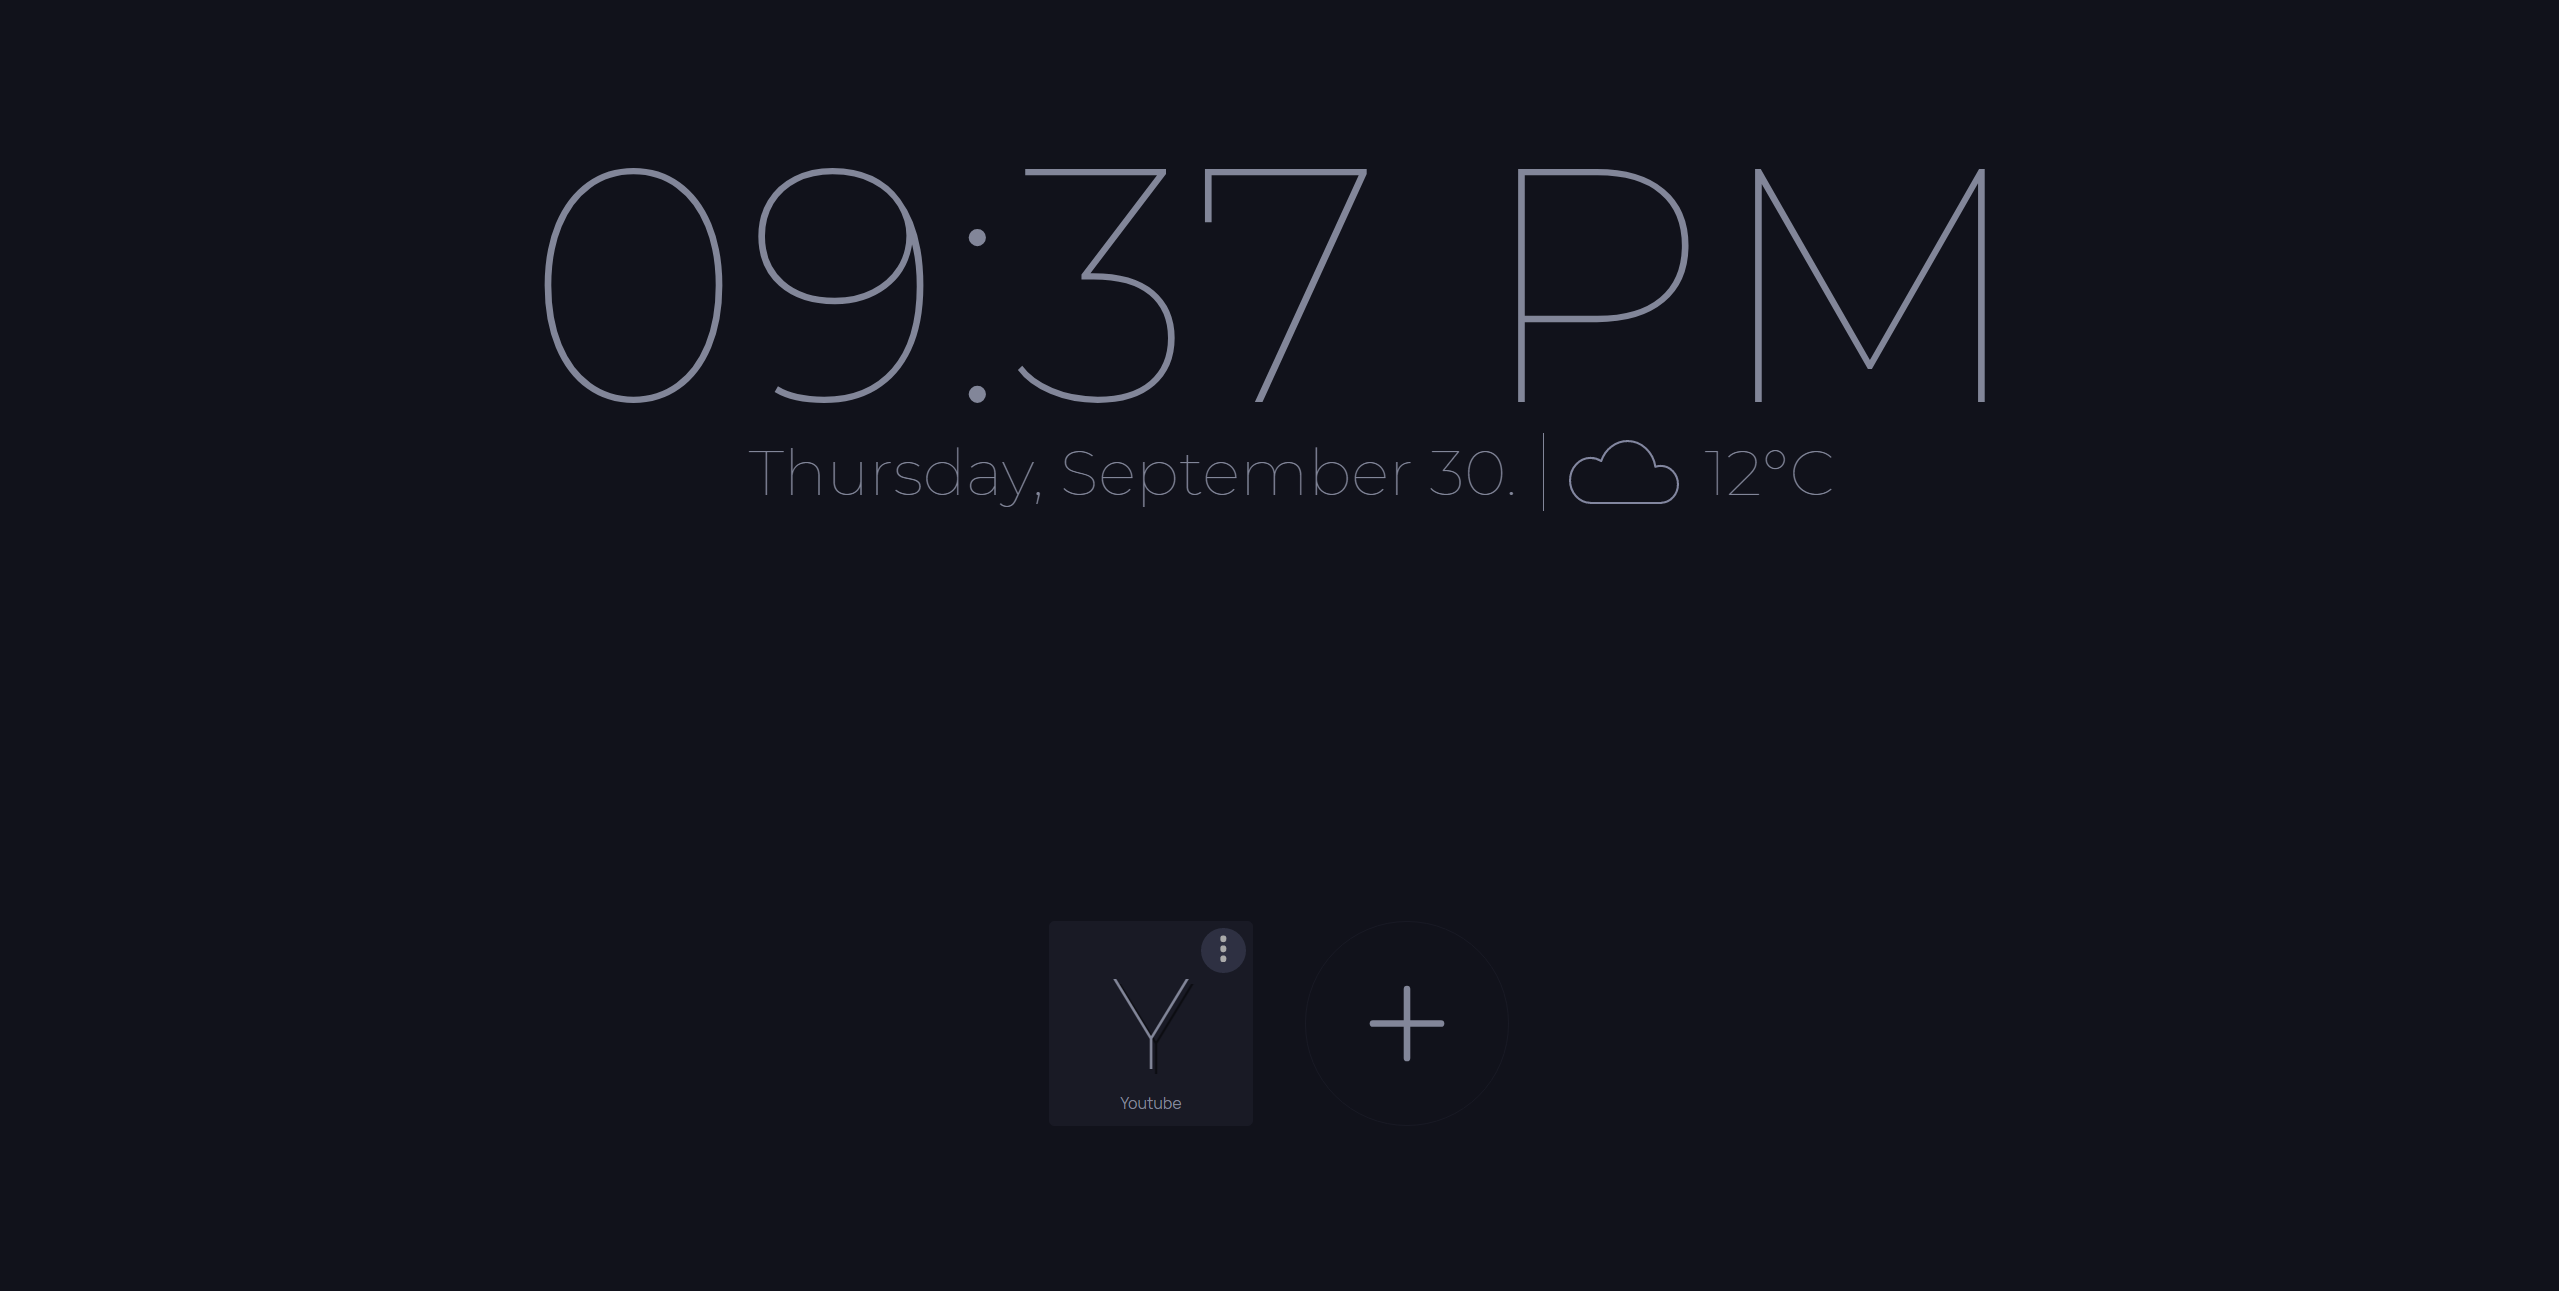
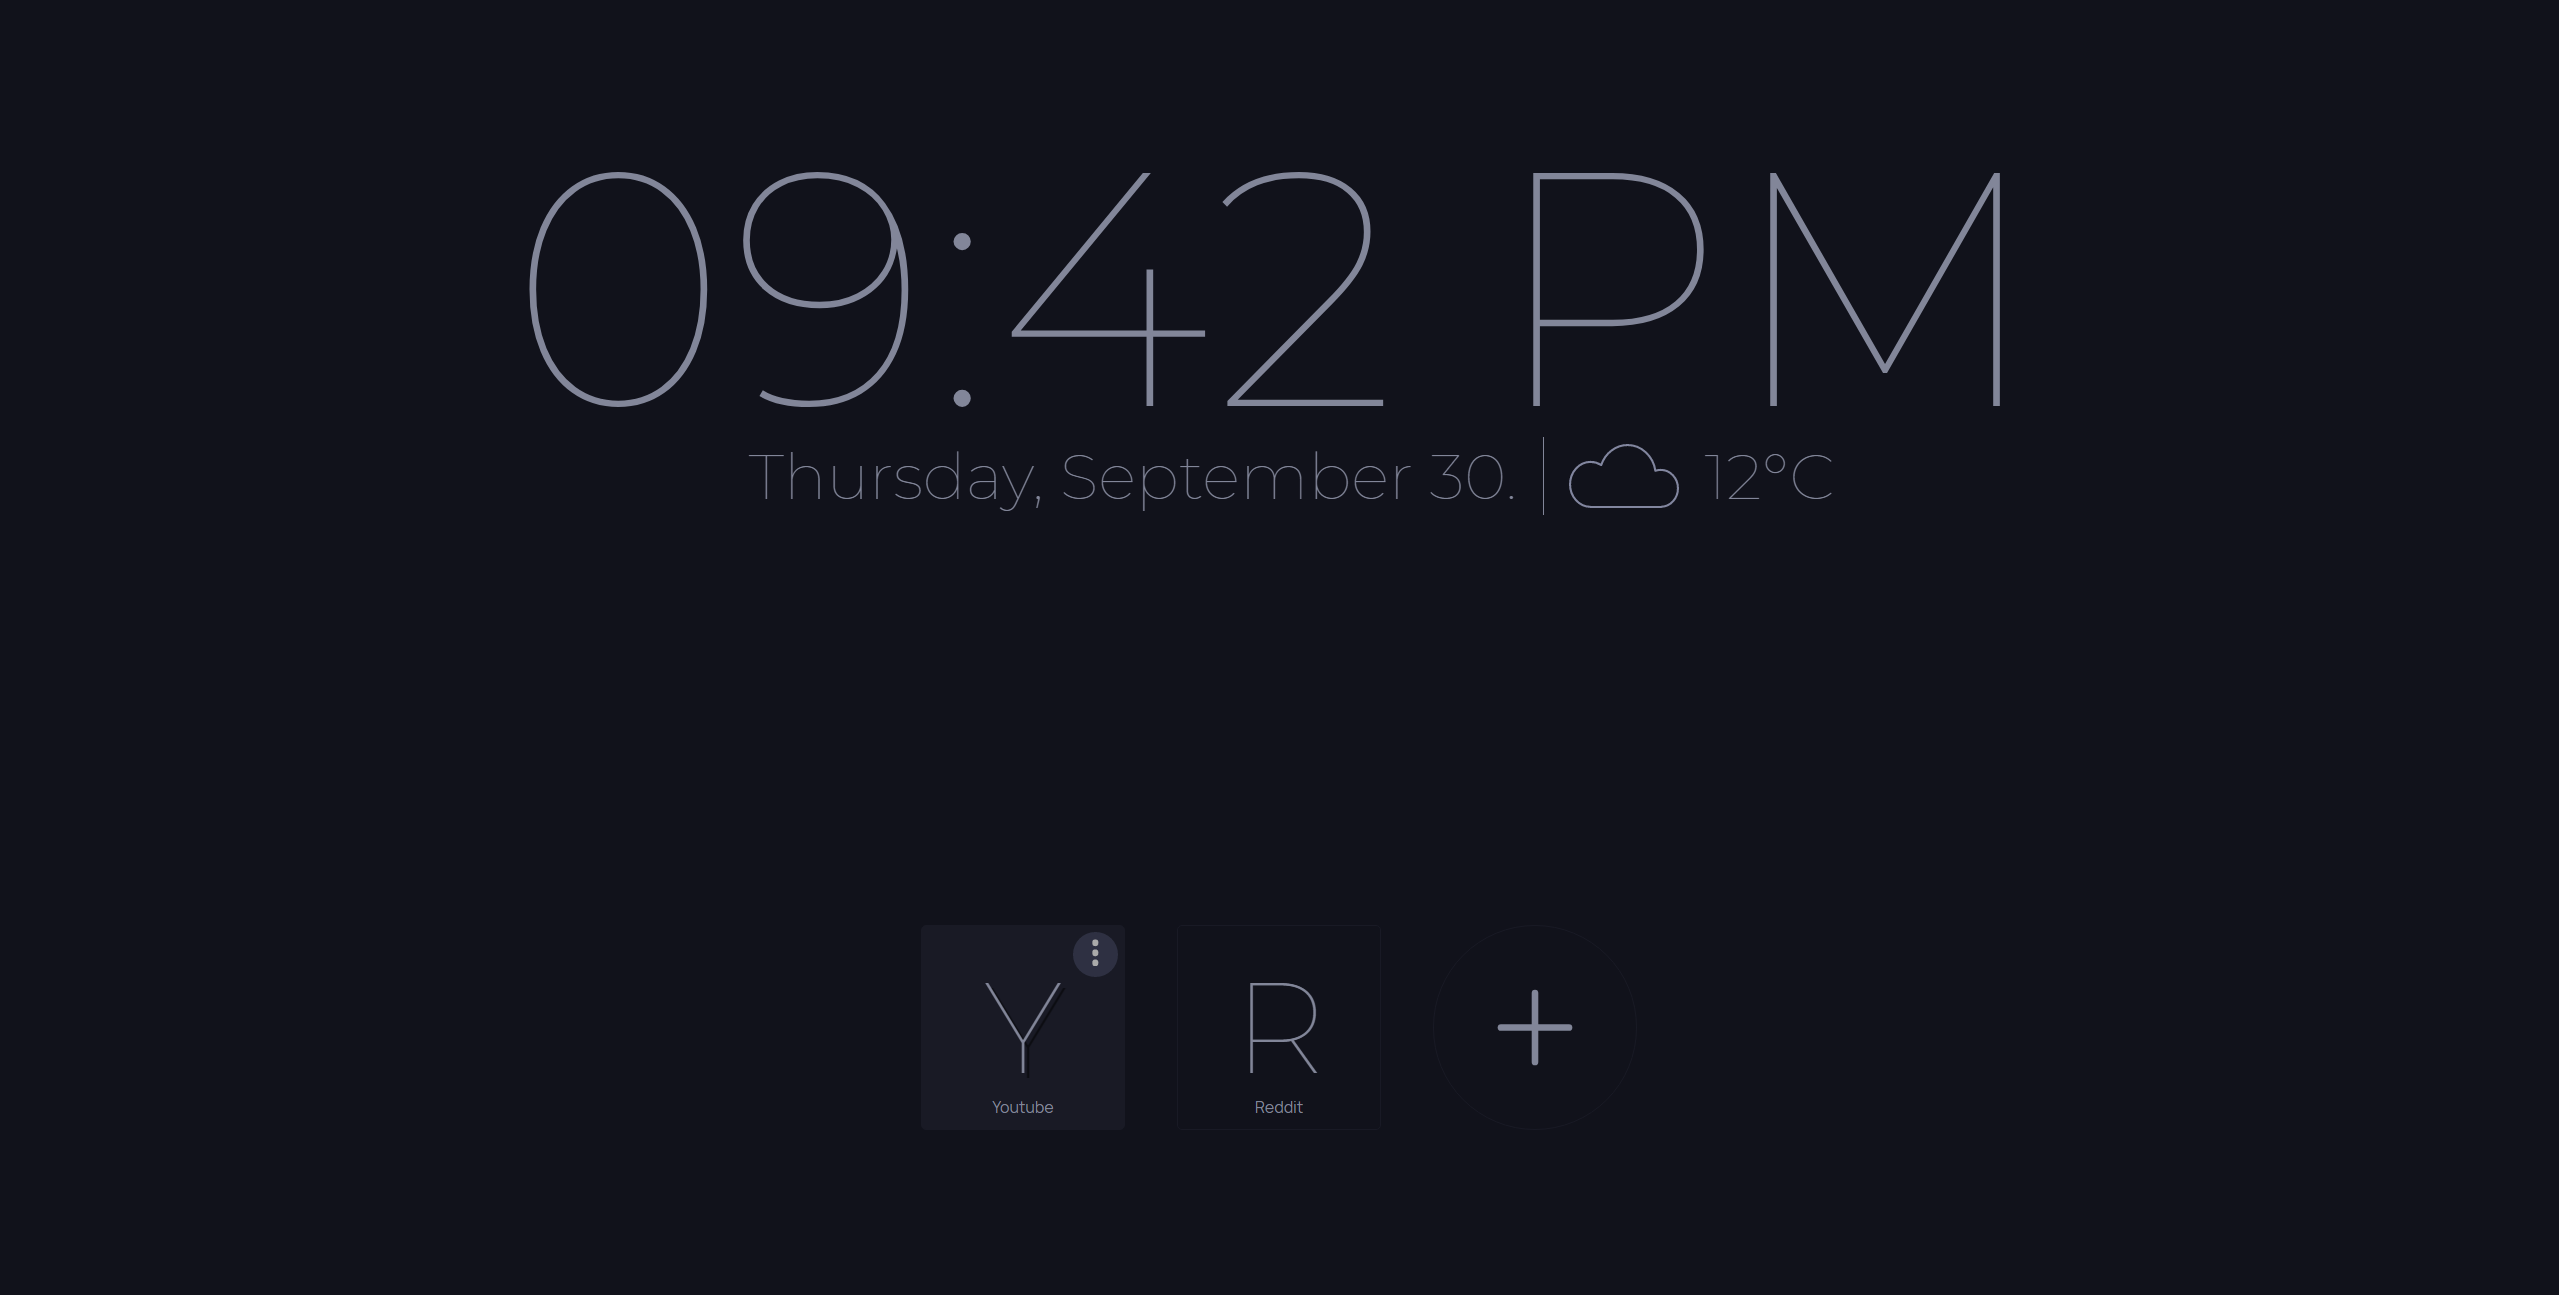
Yet another update to the screenshots and README

diff --git a/README.md b/README.md
@@ -1,5 +1,6 @@
 # web-extension
-An updated web extension that changes the default new tab in chrome to the date, time, local weather, and custom shortcuts.
+An updated web extension that changes the default appearance of the new tab in chrome to the date, time, local weather, and custom shortcuts.
 
 
-![Screenshot](src/assets/screenshot.png)
+![Screenshot of Main Page](src/assets/screenshot1.png)
+![Screenshot of modal for editing shortcuts](src/assets/screenshot2.png)
